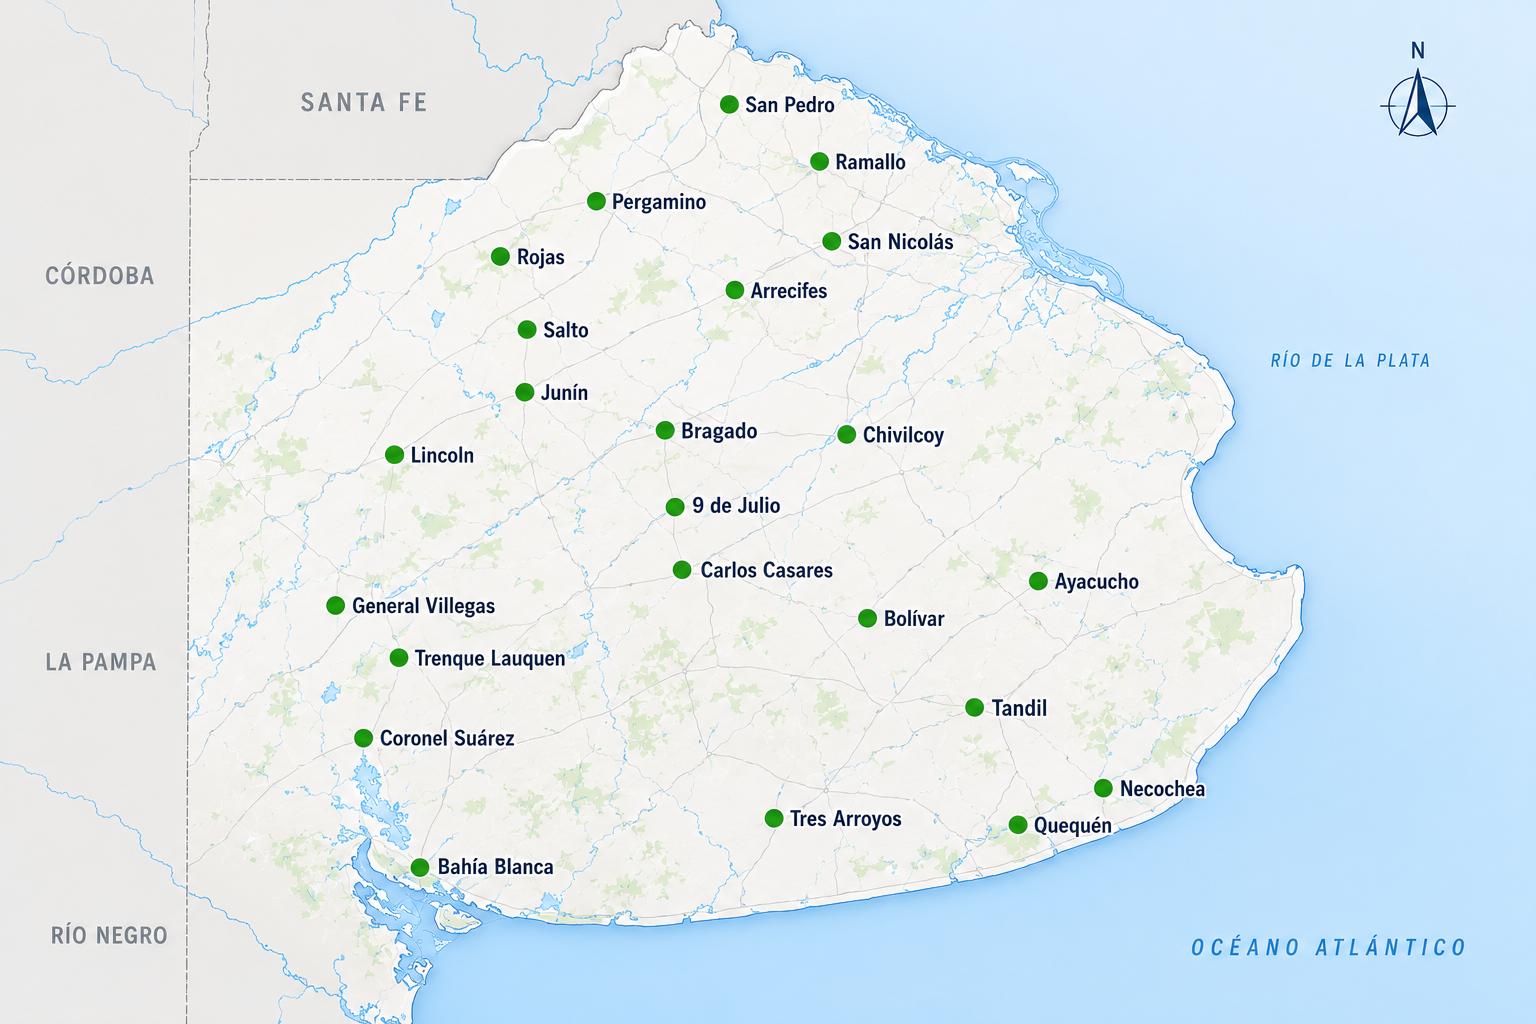
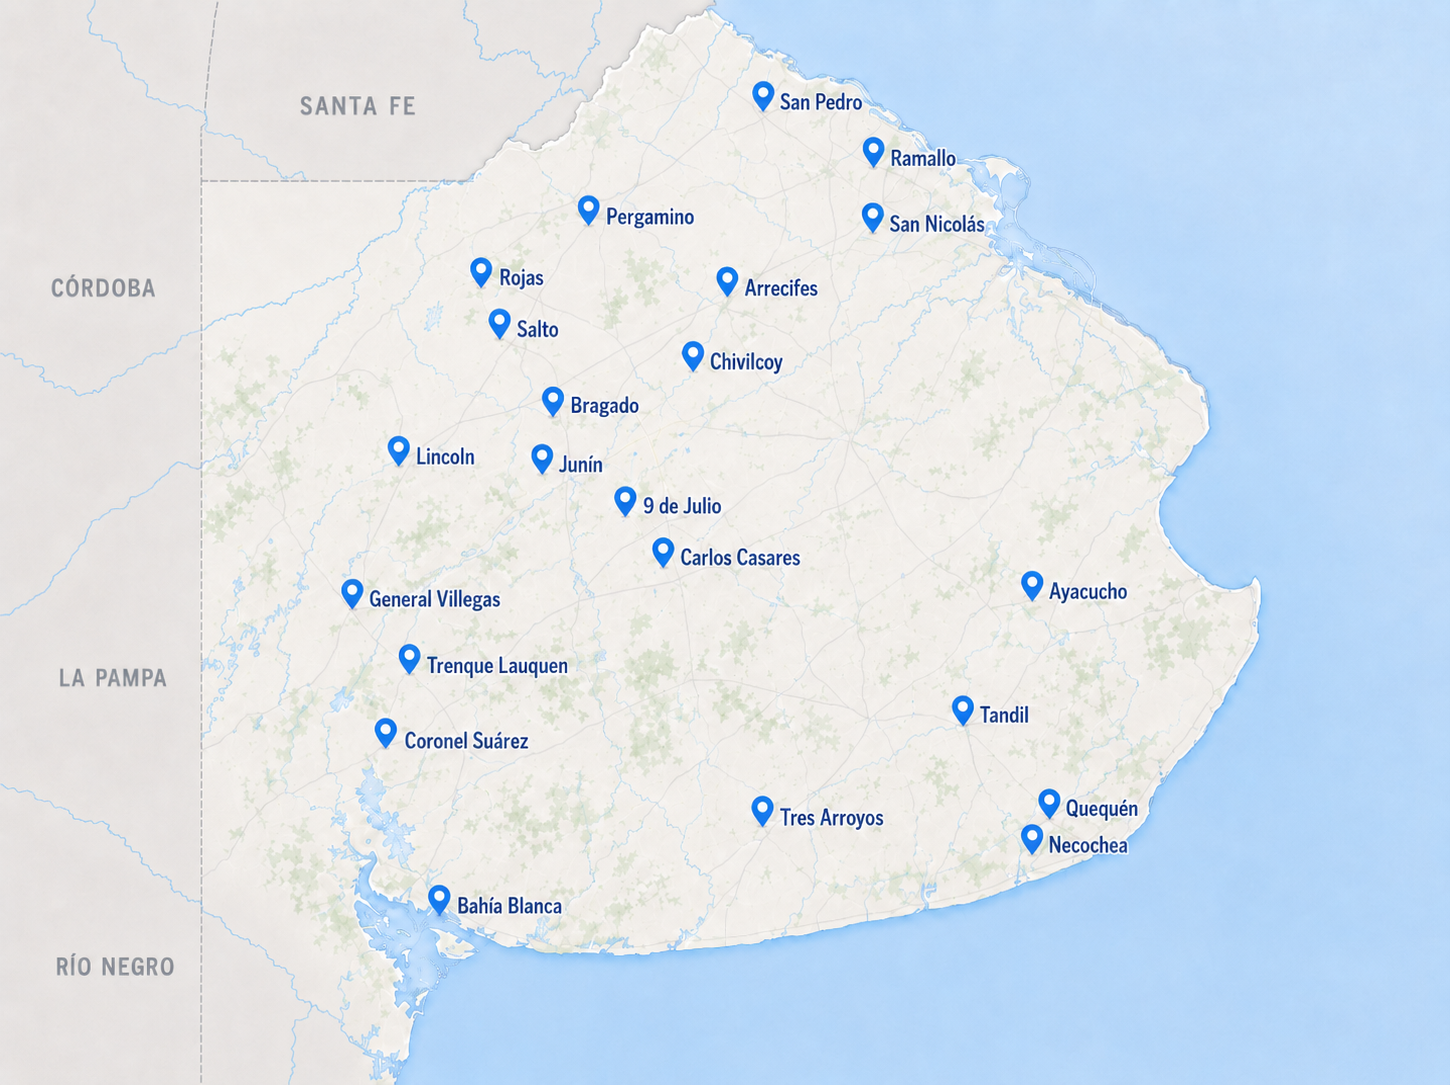
Dron

diff --git a/styles.css b/styles.css
@@ -218,7 +218,7 @@ h3 {
   grid-template-columns: minmax(320px, 0.95fr) minmax(340px, 1fr);
   gap: clamp(34px, 7vw, 92px);
   align-items: center;
-  background: linear-gradient(180deg, #ffffff, #eef6f4);
+  background: #ffffff;
 }
 
 .problem-copy {
@@ -230,7 +230,7 @@ h3 {
 
 .problem-copy p {
   margin: 0;
-  color: var(--muted);
+  color: var(--primary-900);
   font-size: 1.12rem;
 }
 
@@ -357,7 +357,7 @@ h3 {
 
 .assets-title p:last-child {
   margin: 0;
-  color: var(--muted);
+  color: var(--primary-900);
   font-size: 1.08rem;
 }
 
@@ -1071,61 +1071,116 @@ h3 {
 }
 
 
-.tech-section { padding: 80px 5%; background: #ffffff; }
+.tech-section {
+  padding: clamp(48px, 5vw, 70px) clamp(42px, 6vw, 96px);
+  background: #ffffff;
+}
 
 .tech-container {
   display: grid;
-  grid-template-columns: 1fr 1fr;
-  gap: 60px;
+  grid-template-columns: minmax(360px, 1.05fr) minmax(320px, 0.95fr);
+  gap: clamp(42px, 7vw, 88px);
   align-items: center;
-  max-width: 1100px;
+  max-width: 1180px;
   margin: 0 auto;
 }
 
-.dron-hero {
-  width: 100%;
-  max-width: 500px;
-  /* El drop-shadow hace que el dron recorte "flote" sobre tu fondo blanco */
-  filter: drop-shadow(0 20px 40px rgba(0,0,0,0.1));
+.tech-visual {
+  position: relative;
+  min-height: 340px;
+  overflow: visible;
 }
 
-.tech-info h2 { color: #041a31; font-size: 2.2rem; margin-bottom: 20px; }
-.tech-intro { color: #5b6873; font-size: 1.1rem; margin-bottom: 30px; }
+.tech-visual::before {
+  content: none;
+}
 
-.tech-checklist {
-  list-style: none;
-  padding: 0;
+.tech-drone {
+  position: absolute;
+  top: 0;
+  left: 0;
+  z-index: 2;
+  width: min(78%, 500px);
+  height: auto;
+  object-fit: contain;
+}
+
+.tech-tablet {
+  position: absolute;
+  right: 0;
+  bottom: 0;
+  z-index: 3;
+  width: min(48%, 280px);
+  height: auto;
+  object-fit: contain;
+  border-radius: 8px;
+}
+
+.tech-info h2 {
+  color: var(--primary-900);
+  font-size: clamp(1.75rem, 2.5vw, 2.55rem);
+  line-height: 1.12;
+  margin-bottom: 18px;
+}
+
+.tech-intro {
+  color: var(--muted);
+  font-size: 1.08rem;
+  margin-bottom: 30px;
+}
+
+.tech-points {
   display: grid;
-  gap: 15px;
+  gap: 18px;
 }
 
-.tech-checklist li {
-  display: flex;
-  align-items: center;
-  font-weight: 600;
-  color: #041a31;
+.tech-point {
+  padding-left: 18px;
+  border-left: 2px solid rgba(89, 116, 90, 0.45);
 }
 
-.tech-checklist li span {
-  color: #c28c38; /* Tu color ámbar de marca */
-  margin-right: 12px;
-  font-weight: 800;
+.tech-point strong {
+  display: block;
+  margin-bottom: 5px;
+  color: var(--primary-900);
+  font-size: 1.02rem;
 }
 
-.tech-footer {
-  margin-top: 35px;
-  padding: 20px;
-  background: #fdfdfd;
-  border-left: 4px solid #063b7a; /* Tu color azul primario */
-  font-size: 1.15rem;
-  color: #041a31;
-  font-style: italic;
+.tech-point p {
+  margin: 0;
+  color: var(--muted);
+  font-size: 0.98rem;
 }
 
 @media (max-width: 768px) {
-  .tech-container { grid-template-columns: 1fr; text-align: center; }
-  .tech-checklist { justify-content: center; }
-  .tech-footer { text-align: center; border-left: none; border-top: 4px solid #063b7a; }
+  .tech-section {
+    padding: 46px 20px;
+  }
+
+  .tech-container {
+    grid-template-columns: 1fr;
+    gap: 34px;
+  }
+
+  .tech-visual {
+    min-height: 280px;
+  }
+
+  .tech-drone {
+    top: 0;
+    left: 0;
+    width: 76%;
+  }
+
+  .tech-tablet {
+    right: 0;
+    bottom: 0;
+    width: min(50%, 210px);
+  }
+
+  .tech-info {
+    text-align: left;
+  }
 }
 
 .insight-section {

diff --git a/index.html b/index.html
@@ -41,8 +41,9 @@
       </button>
       <nav class="site-nav" id="site-nav" data-nav>
 
-        <a href="#proceso">Que hacemos</a>
+        <a href="#proceso">Cómo funciona</a>
         <a href="#activos">Activos</a>
+        <a href="#tecnologia">Tecnología</a>
         <a href="#contacto">Contacto</a>
       </nav>
     </header>
@@ -187,9 +188,9 @@
 <section class="map-section" id="ubicaciones">
   <div class="map-container-grid">
     <div class="map-content">
-      <p class="eyebrow">Red Operativa</p>
-      <h2>Nuestra presencia en Buenos Aires</h2>
-      <p>Operamos estratégicamente en los principales centros agroindustriales de la provincia.</p>
+      <p class="eyebrow">Cobertura Operativa</p>
+      <h2>Cerca de donde la agroindustria lo necesita</h2>
+      <p>Trabajamos en los principales corredores agroindustriales de Buenos Aires, acercando inspecciones aéreas a plantas de acopio de toda la provincia.</p>
     </div>
     
     <div class="map-visual">
@@ -201,28 +202,32 @@
 
 
       <section class="tech-section" id="tecnologia">
-  <div class="tech-container">
-    <div class="tech-visual">
-      <img src="assets/tu-dron.png" alt="Dron industrial AeroInspect" class="dron-hero">
-    </div>
+        <div class="tech-container">
+          <div class="tech-visual" aria-label="Dron profesional y plataforma AeroInspect">
+            <img src="assets/tu-dron.png" alt="Dron profesional utilizado por AeroInspect" class="tech-drone">
+            <img src="assets/tablet.png" alt="Plataforma AeroInspect en tablet" class="tech-tablet">
+          </div>
 
-    <div class="tech-info">
-      <p class="eyebrow">Drones Industriales</p>
-      <h2>Tecnología de Inspección Aérea</h2>
-      <p class="tech-intro">Equipos profesionales diseñados para inspeccionar activos industriales de forma rápida, segura y precisa.</p>
-      
-      <ul class="tech-checklist">
-        <li><span>✓</span> Alta resolución</li>
-        <li><span>✓</span> Inspección segura</li>
-        <li><span>✓</span> Cobertura rápida de grandes superficies</li>
-        <li><span>✓</span> Registro digital trazable</li>
-      </ul>
-      
-      <div class="tech-footer">
-        <strong>Menos riesgo. Más información. Mejores decisiones.</strong>
-      </div>
-    </div>
-  </div>
+          <div class="tech-info">
+            <p class="eyebrow">Solución integrada</p>
+            <p class="tech-intro">AeroInspect combina drones profesionales y una plataforma propia para ofrecer una experiencia de inspección precisa, ordenada y confiable.</p>
+
+            <div class="tech-points">
+              <div class="tech-point">
+                <strong>Equipamiento profesional</strong>
+                <p>Capturas claras para revisar activos críticos.</p>
+              </div>
+              <div class="tech-point">
+                <strong>Desarrollo propio</strong>
+                <p>Una plataforma diseñada para el trabajo real en planta.</p>
+              </div>
+              <div class="tech-point">
+                <strong>Experiencia premium</strong>
+                <p>Todo el proceso conectado, simple y listo para usar.</p>
+              </div>
+            </div>
+          </div>
+        </div>
 </section>
 
       <section class="fullscreen-video" id="demo">